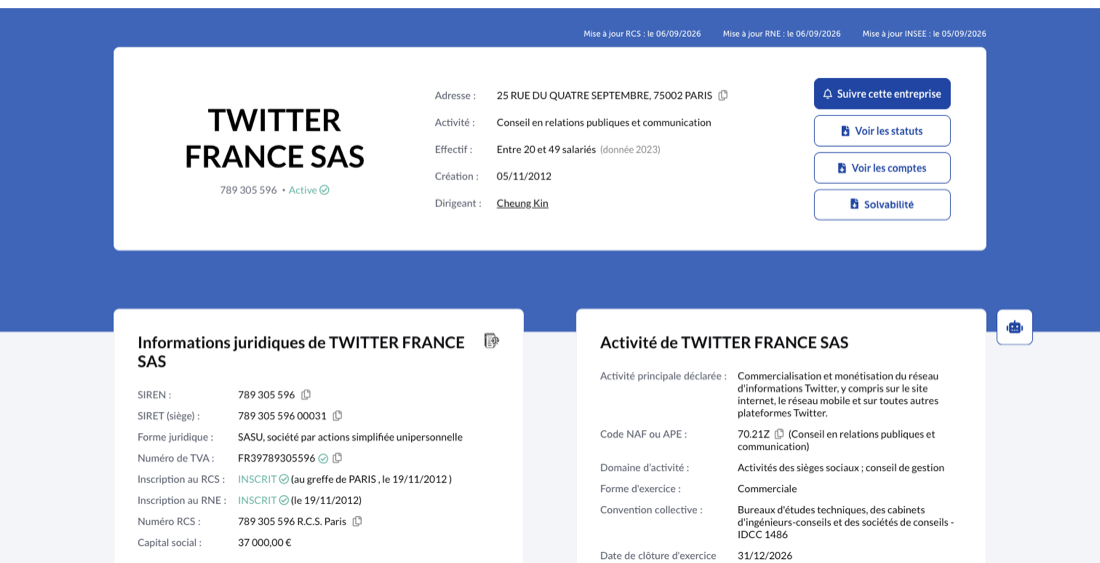
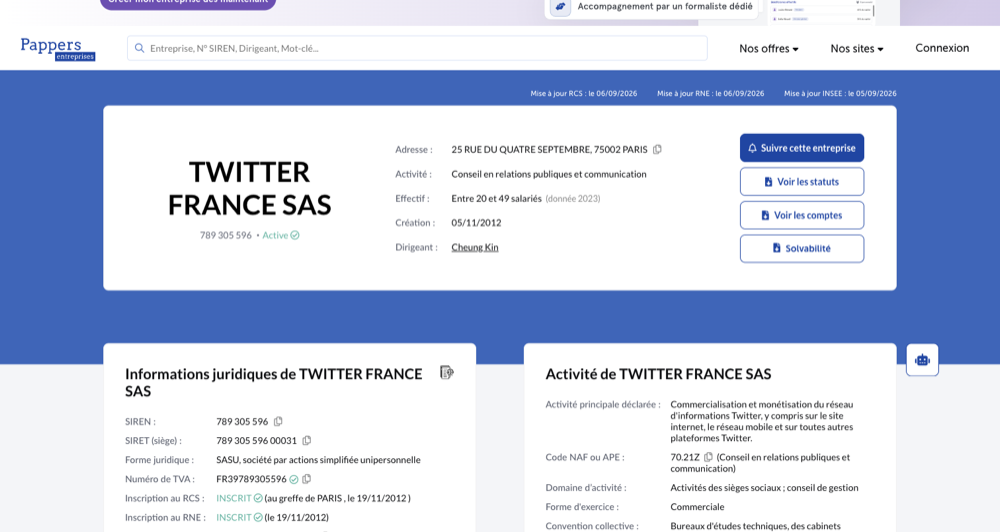
Slide 11 : bascule Monde/France, cinq publications capturees, titre et sources normalises. Fiche Pappers recadree

diff --git a/index.html b/index.html
@@ -60,6 +60,13 @@ strong{font-weight:600}
 .badge-bleu{background:rgba(29,155,240,.1);color:var(--bleu)}
 .badge-vert{background:rgba(0,128,0,.1);color:var(--vert)}
 .badge-rouge{background:rgba(255,0,0,.08);color:var(--rouge)}
+.pilule{display:inline-flex;gap:2px;padding:3px;border-radius:999px;border:1px solid var(--filet);
+  background:rgba(10,10,10,.05);cursor:pointer;user-select:none}
+.pilule span{padding:.5em 1.1em;border-radius:999px;font-size:var(--fs-sm);font-weight:600;
+  letter-spacing:.1em;text-transform:uppercase;color:var(--sourdine);transition:.18s}
+.pilule .actif{background:var(--carte);color:var(--encre);box-shadow:0 1px 5px rgba(10,10,10,.18)}
+.entete{display:flex;align-items:center;justify-content:space-between;gap:1em;margin-bottom:.6em}
+.entete .t{font-size:var(--fs-sm);font-weight:600;text-transform:uppercase;letter-spacing:.16em;color:var(--sourdine)}
 
 /* pied de slide : source à gauche, outil d'IA à droite, jamais superposés */
 .pied{margin-top:1.4em;padding-right:6em}
@@ -307,7 +314,7 @@ body.notesvues section.ici .notes{display:block}
       <div class="carte"><p class="corps" style="margin:0"><strong>Par genre.</strong> 62 à 66 % d'hommes selon l'année. C'est l'audience la plus déséquilibrée de tous les grands réseaux français.</p></div>
     </div>
     <div class="pied">
-      <p class="src">Sources : Ecommerce Nation (consulté le 06/09/2026), Guide des réseaux sociaux 2024 p. 8 et 2025 p. 5 · Statista, janvier 2025 et 2024.</p>
+      <p class="src">Sources : Ecommerce Nation (consulté le 06/09/2026), Guides 2024 p. 8 et 2025 p. 5 · Statista (consulté le 06/09/2026), janvier 2025 et 2024.</p>
     </div>
   </div>
   <div class="notes">Deux chiffres, une phrase. Moins deux millions de personnes touchables en un an, et sept minutes par jour. Puis le retournement : c'est pourtant le réseau où la génération Z est la plus sur-représentée. Donc X est petit, masculin, jeune et intense. Une marque qui le traite comme un média de masse se trompe d'outil. 60 secondes.</div>
@@ -343,7 +350,7 @@ body.notesvues section.ici .notes{display:block}
       </div>
     </div>
     <div class="pied">
-      <p class="src">Personas construits à partir des données d'audience présentées dans les slides précédentes. Ce n'est pas une étude terrain mais une lecture des chiffres. Premier jet des deux profils avec ChatGPT, réécrits par nos soins.</p>
+      <p class="src">Source : les données d'audience des slides précédentes. Lecture des chiffres, pas une étude terrain. Premier jet des deux profils avec ChatGPT, réécrit par nos soins.</p>
     </div>
   </div>
   <div class="notes">Expliquer pourquoi deux. L'audience que l'on a n'est pas celle pour qui l'on écrit. Sur X, la majorité passive c'est Théo, mais toute la valeur est chez Camille, parce que X est un réseau de relais et non un réseau de portée. Puis la phrase : « Sur X, on ne parle pas à son audience, on parle à ceux qui vont vous répéter. » 60 secondes.</div>
@@ -364,7 +371,7 @@ body.notesvues section.ici .notes{display:block}
     </div>
     <div class="carte carte-bleu"><p class="corps" style="margin:0"><strong>Le point commun n'est pas un secteur, c'est une horloge.</strong> X domine partout où la valeur d'un message s'effondre au bout d'une heure. Si votre message est encore pertinent demain, publiez-le ailleurs.</p></div>
     <div class="pied">
-      <p class="src">Sources : Ecommerce Nation (consulté le 06/09/2026), Guides 2024 p. 8-9 et 2025 p. 5 · SocialHub Magazine n° 6, 2026.</p>
+      <p class="src">Sources : Ecommerce Nation (consulté le 06/09/2026), Guides 2024 p. 8-9 et 2025 p. 5 · SocialHub Magazine (consulté le 06/09/2026), n° 6, 2026.</p>
     </div>
   </div>
   <div class="notes">Ne pas énumérer les six secteurs, la salle décroche. En donner deux, puis sauter directement à l'idée de l'horloge, c'est l'analyse que la consigne attend. « X n'est pas une plateforme de secteur, c'est une plateforme d'échéance. » 45 secondes.</div>
@@ -388,7 +395,7 @@ body.notesvues section.ici .notes{display:block}
       </div>
     </div>
     <div class="pied">
-      <p class="src">Sources : Ecommerce Nation (consulté le 06/09/2026), quatre objectifs de la fiche X · comptes observés sur la plateforme le 06/09/2026. Liste soumise à ChatGPT, trois conseils génériques écartés.</p>
+      <p class="src">Sources : Ecommerce Nation (consulté le 06/09/2026), quatre objectifs de la fiche X · X (consulté le 06/09/2026), comptes observés. Liste soumise à ChatGPT, trois conseils génériques écartés.</p>
     </div>
   </div>
   <div class="notes">C'est la partie pratique, le professeur la demande explicitement. Dire à l'oral les conseils 1, 2 et 6, ce sont les contre-intuitifs. Insister sur « répondre avant de publier » : c'est gratuit, et personne ne le fait. 60 secondes.</div>
@@ -422,7 +429,7 @@ body.notesvues section.ici .notes{display:block}
       </div>
     </div>
     <div class="pied">
-      <p class="src">Sources : Ecommerce Nation (consulté le 06/09/2026), Guides 2024 et 2025 · Commission européenne, décision DSA de décembre 2025.</p>
+      <p class="src">Sources : Ecommerce Nation (consulté le 06/09/2026), Guides 2024 et 2025 · Commission européenne (consulté le 06/09/2026), décision DSA de décembre 2025.</p>
     </div>
   </div>
   <div class="notes">La colonne de droite est celle que l'on retiendra. Dire la dernière ligne à voix haute : « Si votre marque ne peut pas se permettre d'apparaître à côté de n'importe quoi, X n'est pas un canal, c'est un risque. » 45 secondes.</div>
@@ -432,46 +439,52 @@ body.notesvues section.ici .notes{display:block}
 <section id="s11">
   <span class="num">11 / 15</span>
   <div class="wrap">
-    <h2>Les comptes les plus suivis et les publications les plus aimées</h2>
-    <div class="grille g2" style="align-items:start">
+    <h2>Les comptes et publications les plus aimés</h2>
+    <div class="grille g2" style="align-items:start;grid-template-columns:minmax(0,.85fr) minmax(0,1.15fr)">
       <div>
-        <table>
-          <tr><th colspan="2">Les plus suivis dans le monde</th><th style="text-align:right">Abonnés</th></tr>
+        <div class="entete">
+          <span class="t">Les comptes les plus suivis</span>
+          <span class="pilule" id="bascule"><span class="actif" data-vue="monde">Monde</span><span data-vue="france">France</span></span>
+        </div>
+        <table id="t-monde">
+          <tr><th colspan="2">Compte</th><th style="text-align:right">Abonnés</th></tr>
           <tr><td><img class="face" src="img/av-elonmusk.jpg" alt=""></td><td>Elon Musk <span class="detail">@elonmusk</span></td><td class="n">241,6 M</td></tr>
           <tr><td><img class="face" src="img/av-BarackObama.jpg" alt=""></td><td>Barack Obama <span class="detail">@BarackObama</span></td><td class="n">119,0 M</td></tr>
           <tr><td><img class="face" src="img/av-Cristiano.jpg" alt=""></td><td>Cristiano Ronaldo <span class="detail">@Cristiano</span></td><td class="n">114,1 M</td></tr>
           <tr><td><img class="face" src="img/av-realDonaldTrump.jpg" alt=""></td><td>Donald Trump <span class="detail">@realDonaldTrump</span></td><td class="n">111,7 M</td></tr>
           <tr><td><img class="face" src="img/av-narendramodi.jpg" alt=""></td><td>Narendra Modi <span class="detail">@narendramodi</span></td><td class="n">107,1 M</td></tr>
         </table>
-        <table style="margin-top:10px">
-          <tr><th colspan="2">Les plus suivis en France</th><th style="text-align:right">Abonnés</th></tr>
+        <table id="t-france" hidden>
+          <tr><th colspan="2">Compte</th><th style="text-align:right">Abonnés</th></tr>
           <tr><td><img class="face" src="img/av-KMbappe.jpg" alt=""></td><td>Kylian Mbappé <span class="detail">@KMbappe</span></td><td class="n">23,7 M</td></tr>
           <tr><td><img class="face" src="img/av-davidguetta.jpg" alt=""></td><td>David Guetta <span class="detail">@davidguetta</span></td><td class="n">15,4 M</td></tr>
           <tr><td><img class="face" src="img/av-PSG_inside.jpg" alt=""></td><td>Paris Saint-Germain <span class="detail">@PSG_inside</span></td><td class="n">14,8 M</td></tr>
         </table>
+        <div class="carte carte-bleu" style="margin-top:1em"><p class="corps" style="margin:0"><strong>Aucune des cinq publications n'est une publication de marque.</strong> Trois relèvent du deuil ou de la politique, une est une plaisanterie, une est une réponse à une provocation. C'est le plafond de la plateforme.</p></div>
       </div>
       <div>
-        <table>
-          <tr><th>Les publications les plus aimées de l'histoire</th><th style="text-align:right">Mentions</th></tr>
+        <span class="t" style="font-size:var(--fs-sm);font-weight:600;text-transform:uppercase;letter-spacing:.16em;color:var(--sourdine)">Les publications les plus aimées de l'histoire</span>
+        <table style="margin-top:.6em">
           <tr><td>La famille de Chadwick Boseman annonce sa mort <span class="detail">août 2020</span></td><td class="n">6,6 M</td></tr>
           <tr><td>Elon Musk, « je rachète Coca-Cola » <span class="detail">avril 2022</span></td><td class="n">4,3 M</td></tr>
           <tr><td>Barack Obama, citation de Nelson Mandela <span class="detail">août 2017</span></td><td class="n">3,6 M</td></tr>
           <tr><td>Greta Thunberg répond à Andrew Tate <span class="detail">décembre 2022</span></td><td class="n">3,5 M</td></tr>
           <tr><td>Joe Biden, « a new day in America » <span class="detail">janvier 2021</span></td><td class="n">3,5 M</td></tr>
         </table>
-        <div class="grille g3" style="margin-top:10px">
+        <div class="grille g5" style="margin-top:.9em">
           <img class="vue post" src="img/post-boseman.png" alt="Publication de Chadwick Boseman">
           <img class="vue post" src="img/post-musk-coca.png" alt="Publication d'Elon Musk">
           <img class="vue post" src="img/post-obama.png" alt="Publication de Barack Obama">
+          <img class="vue post" src="img/post-greta.png" alt="Publication de Greta Thunberg">
+          <img class="vue post" src="img/post-biden.png" alt="Publication de Joe Biden">
         </div>
-        <p class="corps"><strong>Aucune des cinq n'est une publication de marque.</strong> Trois relèvent du deuil ou de la politique, une est une plaisanterie, une est une réponse à une provocation. C'est le plafond de la plateforme.</p>
       </div>
     </div>
     <div class="pied">
-      <p class="src">Sources : captures faites sur la plateforme le 06/09/2026 · Wikipédia (consulté le 06/09/2026), listes des comptes les plus suivis et des publications les plus aimées. Chiffres vérifiés sur les profils en direct avec Claude Code.</p>
+      <p class="src">Sources : X (consulté le 06/09/2026), captures des profils et des publications · Wikipédia (consulté le 06/09/2026), listes des comptes les plus suivis et des publications les plus aimées. Chiffres vérifiés sur les profils avec Claude Code.</p>
     </div>
   </div>
-  <div class="notes">Montrer les deux tableaux cinq secondes, puis livrer la seule phrase qui compte : aucune des cinq publications les plus aimées de l'histoire de la plateforme n'est une publication de marque. Trois relèvent du deuil ou de la politique. Sur X, une marque ne gagnera jamais le fil, elle peut seulement être utile à l'intérieur du moment de quelqu'un d'autre. 60 secondes.</div>
+  <div class="notes">Montrer le tableau Monde, basculer sur France d'un clic, puis livrer la seule phrase qui compte : aucune des cinq publications les plus aimées de l'histoire de la plateforme n'est une publication de marque. Trois relèvent du deuil ou de la politique. Sur X, une marque ne gagnera jamais le fil, elle peut seulement être utile à l'intérieur du moment de quelqu'un d'autre. 60 secondes.</div>
 </section>
 
 <!-- 12 · COMPTES -->
@@ -494,7 +507,7 @@ body.notesvues section.ici .notes{display:block}
       </div>
     </div>
     <div class="pied">
-      <p class="src">Source : captures faites sur la plateforme le 06/09/2026, dans les mêmes conditions d'affichage pour les trois comptes. Profils capturés avec Claude Code.</p>
+      <p class="src">Source : X (consulté le 06/09/2026), captures des trois profils dans les mêmes conditions d'affichage. Profils capturés avec Claude Code.</p>
     </div>
   </div>
   <div class="notes">Développer Burger King, c'est le cas actionnable pour une marque française. Zéro abonnement n'est pas un détail, c'est une déclaration : le compte est un diffuseur, pas un membre de la communauté. C'est l'inverse de tous les manuels de social media, et cela fonctionne. Poser la question à la salle : oseriez-vous recommander cela à un client ? 60 secondes.</div>
@@ -550,7 +563,7 @@ body.notesvues section.ici .notes{display:block}
     </table>
     <div class="carte carte-bleu" style="margin-top:12px"><p class="corps" style="margin:0"><strong>Notre recommandation pour un lancement.</strong> X Pro pour surveiller, Buffer pour publier, et une alerte Mention gratuite sur le nom de la marque. Moins de 20 € par mois au total. Hootsuite seulement lorsque plusieurs personnes doivent valider une publication : l'outil est un symptôme de l'équipe, pas du réseau.</p></div>
     <div class="pied">
-      <p class="src">Sources : Ecommerce Nation (consulté le 06/09/2026), onglet Outils du Guide 2024 et Guide 2025 p. 5 · pages tarifaires publiques des éditeurs.</p>
+      <p class="src">Sources : Ecommerce Nation (consulté le 06/09/2026), onglet Outils du Guide 2024 et Guide 2025 p. 5 · pages tarifaires des éditeurs (consultées le 06/09/2026).</p>
     </div>
   </div>
   <div class="notes">Le professeur a annoncé qu'il insisterait sur les outils pour cette première présentation : livrer la recommandation, pas la liste. La dernière phrase est l'argument : « l'outil est un symptôme de l'équipe, pas du réseau. » 60 secondes.</div>
@@ -574,7 +587,7 @@ body.notesvues section.ici .notes{display:block}
       </div>
     </div>
     <div class="pied">
-      <p class="src">Pas de résumé, conformément à la consigne. Notre lecture des chiffres présentés dans les slides précédentes. Position contre-argumentée avec ChatGPT, objection conservée.</p>
+      <p class="src">Source : les chiffres présentés dans les slides précédentes. Pas de résumé, conformément à la consigne. Position contre-argumentée avec ChatGPT, objection conservée.</p>
     </div>
   </div>
   <div class="notes">Ralentir. Poser trois phrases et s'arrêter : « X n'est plus un endroit où l'on est vu, c'est un endroit où l'on est cité. » Puis : « Gardez le compte, réduisez le budget, gardez le temps de réponse. » Puis : « La question de 2027 est de savoir si le prochain X a encore besoin de ses utilisateurs. » Et se taire. Le silence est la fin. 70 secondes.</div>
@@ -615,6 +628,15 @@ body.notesvues section.ici .notes{display:block}
 <div class="panneau" id="panneau"></div>
 
 <script>
+/* ---- bascule Monde / France de la slide 11 ---- */
+const bascule=document.getElementById('bascule');
+if(bascule) bascule.addEventListener('click',e=>{
+  const b=e.target.closest('[data-vue]'); if(!b)return;
+  bascule.querySelectorAll('span').forEach(x=>x.classList.toggle('actif',x===b));
+  document.getElementById('t-monde').hidden = b.dataset.vue!=='monde';
+  document.getElementById('t-france').hidden = b.dataset.vue!=='france';
+});
+
 /* ---- mode reglage : T pour entrer et sortir, glisser pour deplacer,
        fleches pour ajuster de 0,5 % (0,1 % avec Maj), C pour copier ---- */
 let vise=null;
